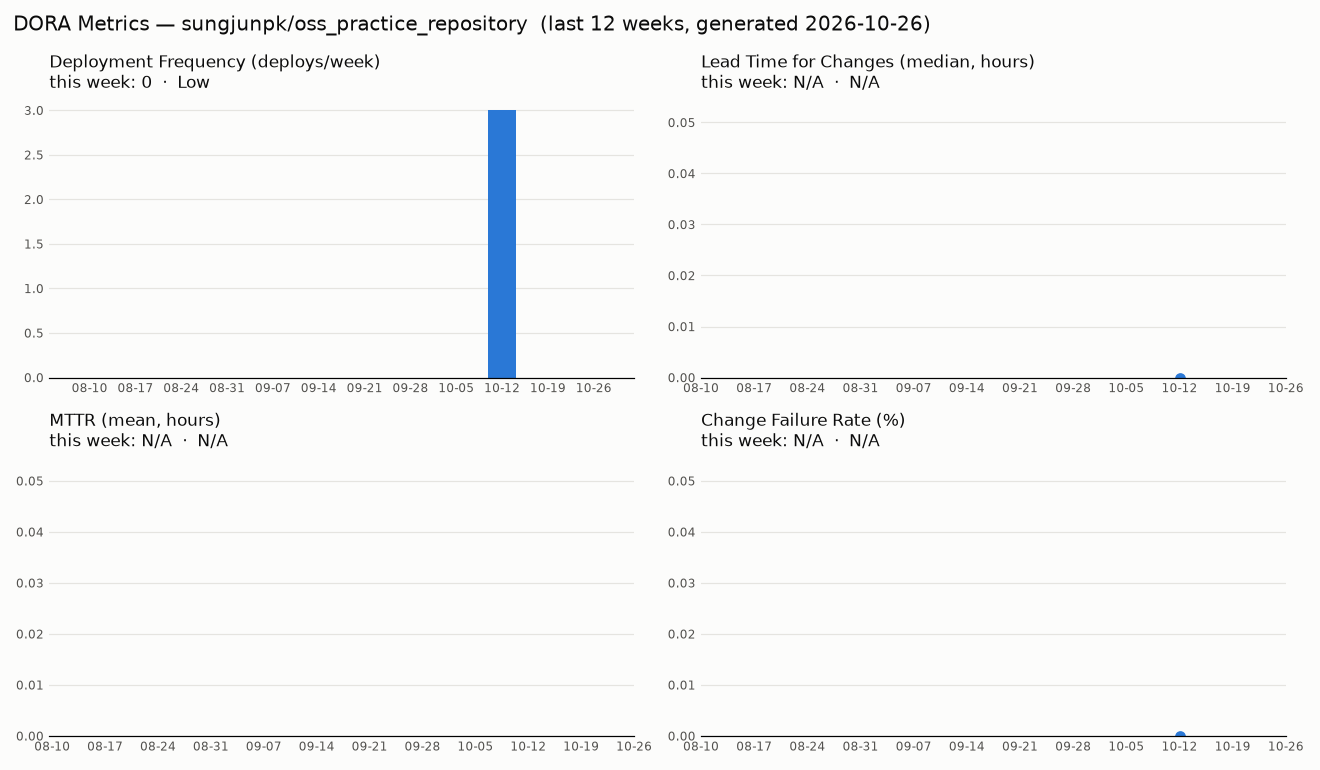
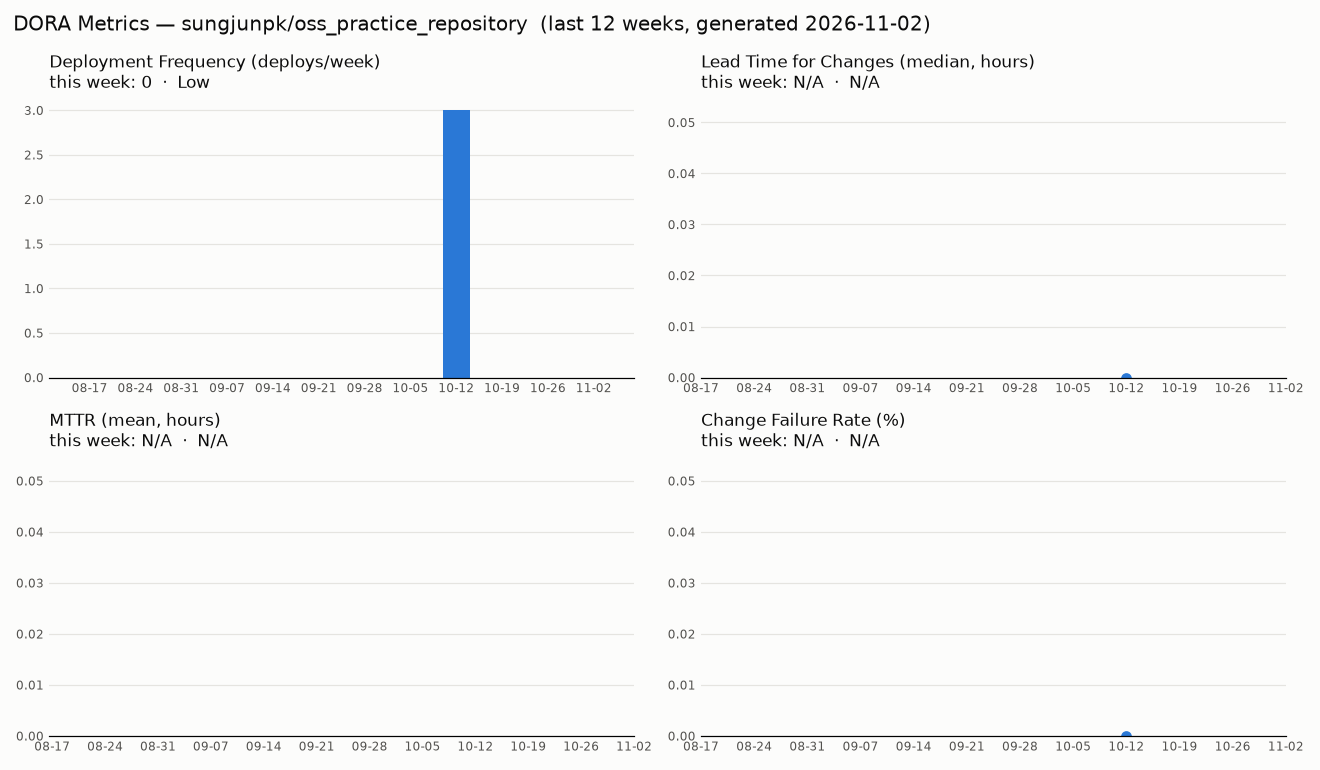
DORA 주간 보고서 갱신 — 2026-11-02

diff --git a/dora/REPORT.md b/dora/REPORT.md
@@ -1,8 +1,8 @@
 # DORA 주간 보고서
 
-> 자동 생성: 2026-10-26 02:56 UTC · `.github/workflows/dora.yml` · 원본 데이터 [`metrics.json`](metrics.json)
+> 자동 생성: 2026-11-02 04:04 UTC · `.github/workflows/dora.yml` · 원본 데이터 [`metrics.json`](metrics.json)
 
-## 이번 주 (2026-10-19 ~ 2026-10-26)
+## 이번 주 (2026-10-26 ~ 2026-11-02)
 
 | 지표 | 값 | 등급 |
 |---|---|---|
@@ -17,6 +17,7 @@
 
 | 주 시작일 | 배포 | Lead Time | MTTR | CFR |
 |---|---|---|---|---|
+| 2026-11-02 | 0 | N/A | N/A | N/A |
 | 2026-10-26 | 0 | N/A | N/A | N/A |
 | 2026-10-19 | 0 | N/A | N/A | N/A |
 | 2026-10-12 | 3 | 0h | N/A | 0% |
@@ -28,7 +29,6 @@
 | 2026-08-31 | 0 | N/A | N/A | N/A |
 | 2026-08-24 | 0 | N/A | N/A | N/A |
 | 2026-08-17 | 0 | N/A | N/A | N/A |
-| 2026-08-10 | 0 | N/A | N/A | N/A |
 
 ## 측정 정의
 - **배포**: `main` 브랜치 push 1회 (trunk-based). 워크플로우 실행 이력에서 수집.
